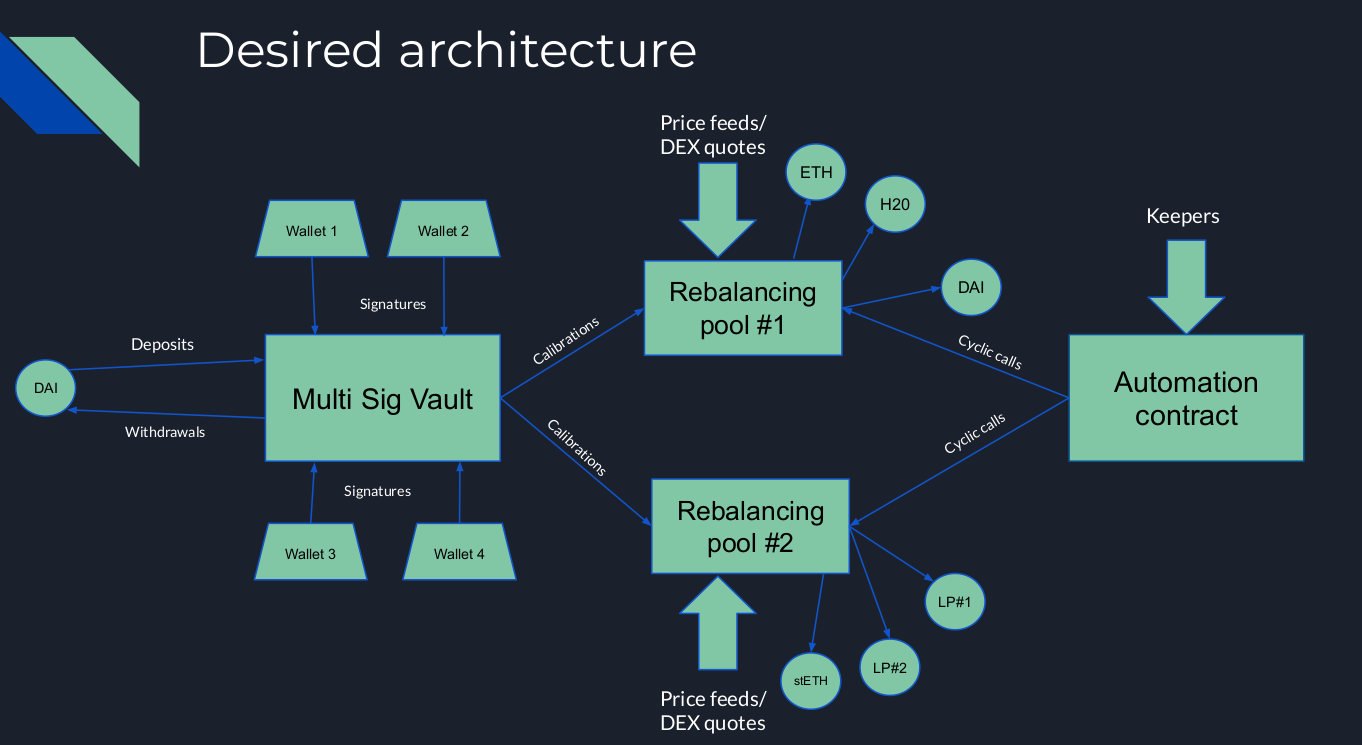
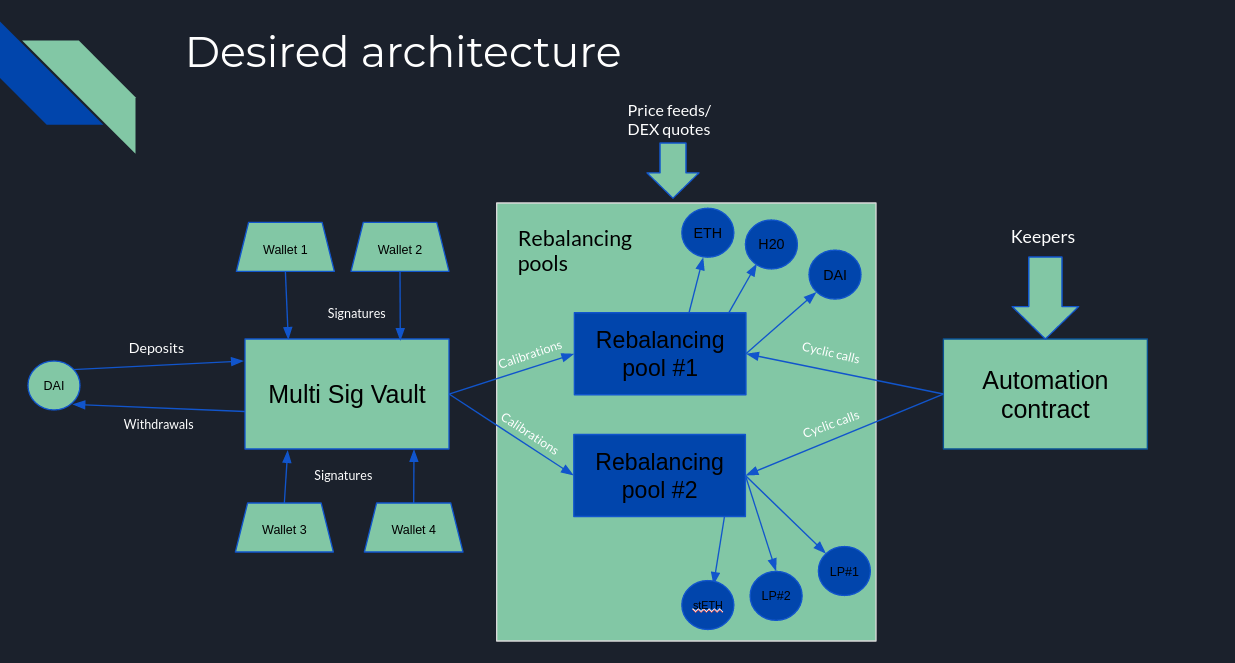
Improvements

diff --git a/README.md b/README.md
@@ -26,14 +26,14 @@ the different devices.
    - [ ] Deposit function
     - [ ] Withdrawal function
     - [ ] User storage
-    - [ ] User mapping to pool
     - [ ] Swapping feature using routerV2
     - [ ] Configuration of pool (intervals, tokens, proportions to keep)
     - [ ] Creation of pool
 
-- [ ] Rebalancing pool #1 
+- [ ] Rebalancing pools
     - [ ] Interface for price feeds of ETH, WBTC and DAI
     - [ ] Storage mapping of tokens to USD value
+    - [ ] User mapping to pool
     - [ ] Interfaces which provide amount of USD for mentioned assets and all pool
 
 - [ ] Automation contract
@@ -47,7 +47,7 @@ the different devices.
     - [ ] Advanced configuration (compounding intervals, multi signature feature enabled/disabled)
     - [ ] More tokens to choose for pool creation (some LP and yield tokens)
 
-- [ ] Rebalancing pool #2
+- [ ] Rebalancing pools
     - [ ] Additional interfaces in order to get prices new LP and yield tokens (additional querries from dexes)
     
 - [ ] Automation Contract
